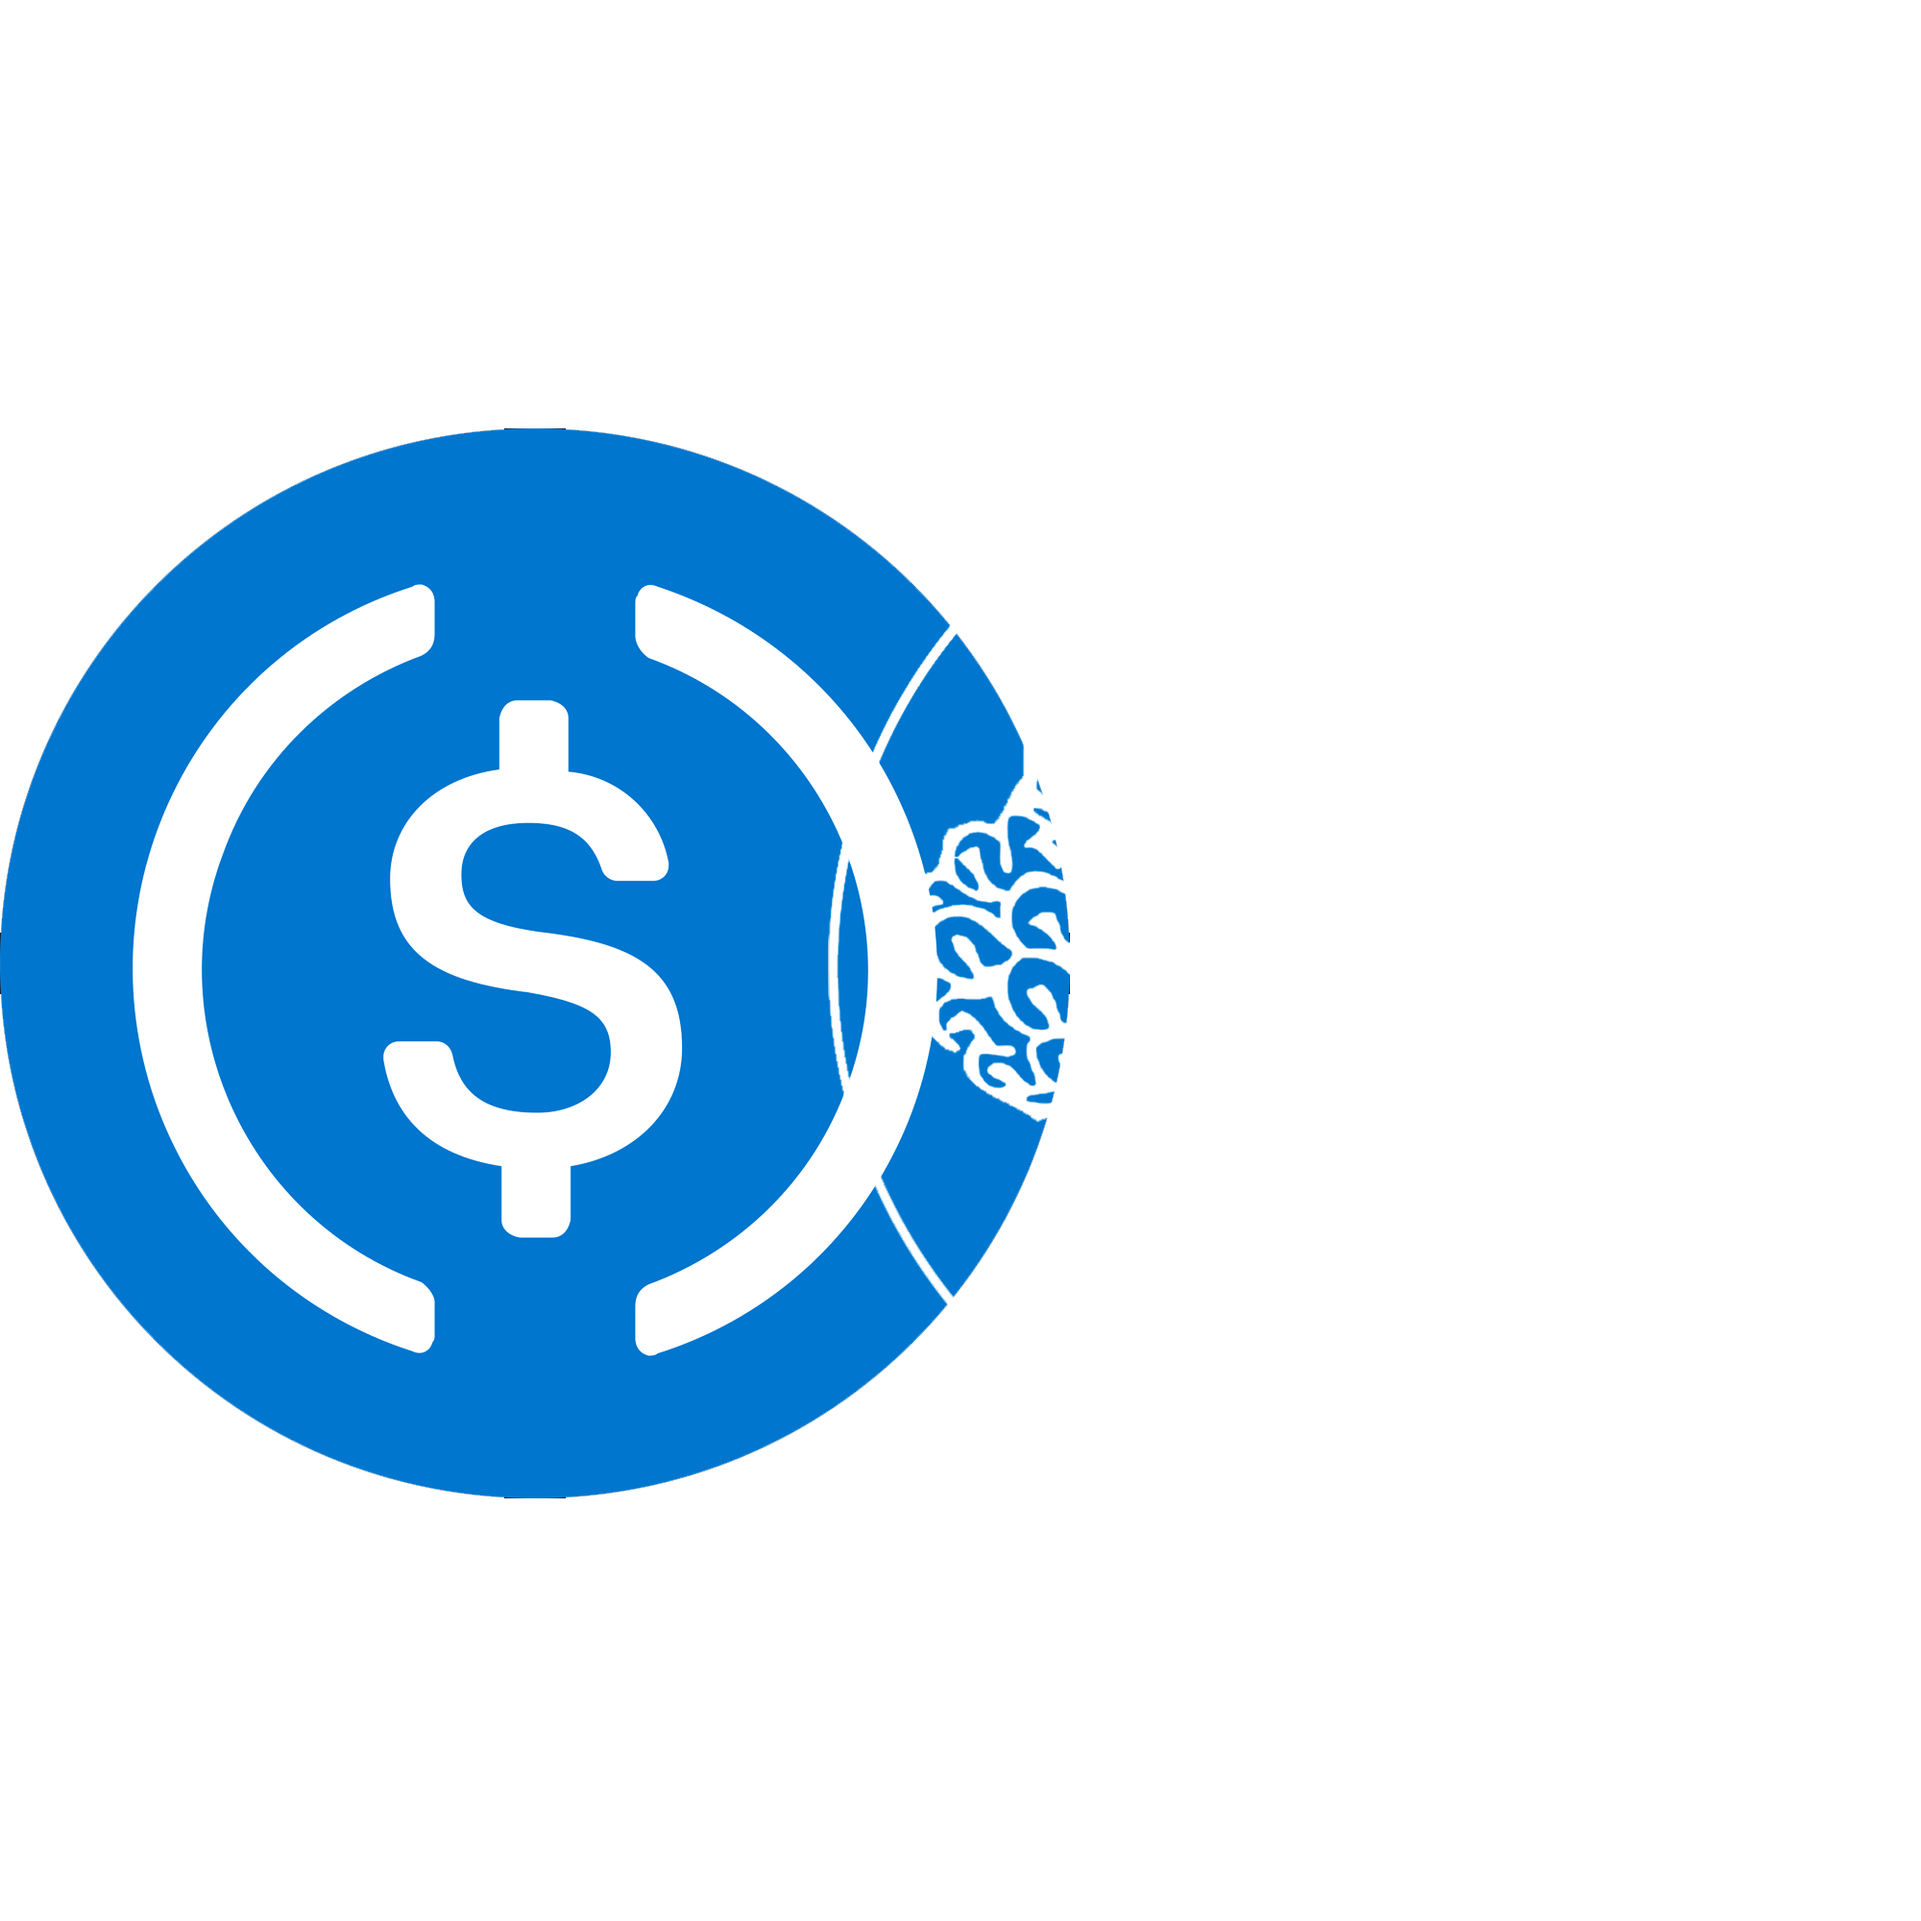
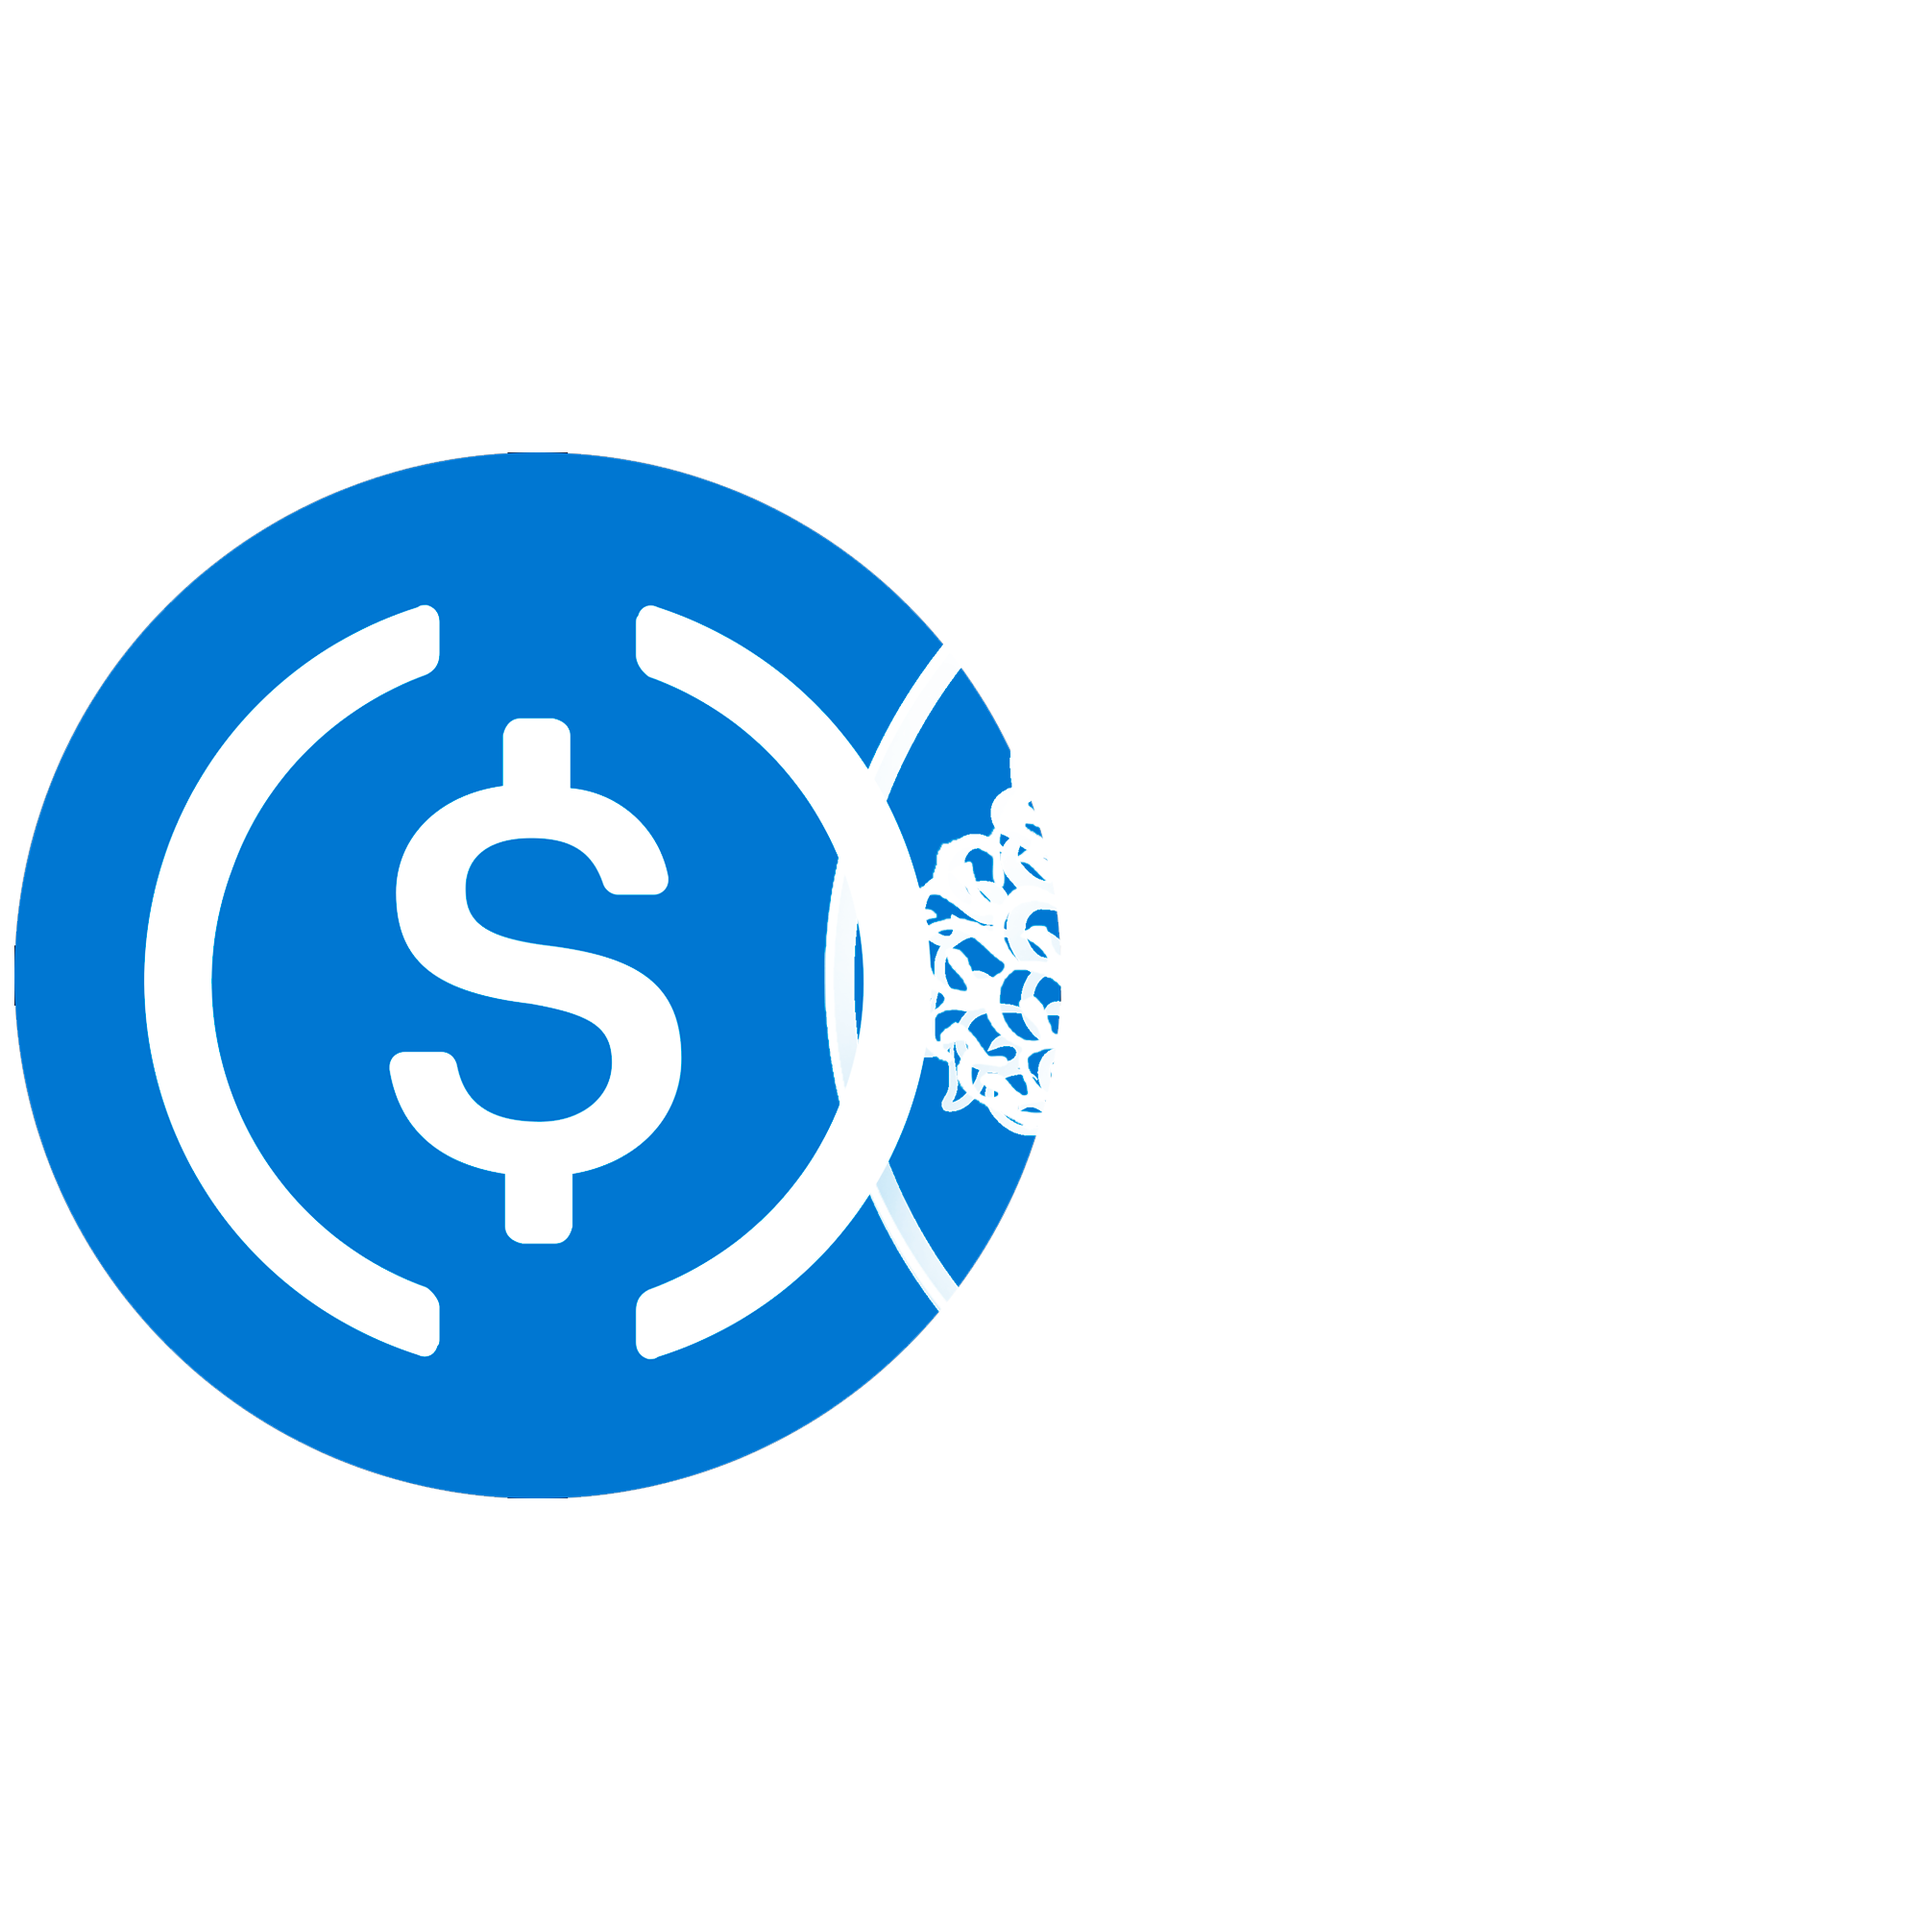
tethys bond

diff --git a/src/store/slices/bond-slice.ts b/src/store/slices/bond-slice.ts
@@ -130,7 +130,7 @@ export const calcBondDetails = createAsyncThunk(
     const bondContract = bond.getContractForBond(networkID, provider)
     const bondCalcContract = getBondCalculator(networkID, provider)
 
-    const vestingTerm = (bond.name === "weth") || (bond.name === "wmetis") ? "432000" : (await bondContract.terms()).vestingTerm
+    const vestingTerm = (bond.name === "weth") || (bond.name === "tethys") || (bond.name === "wmetis") ? "432000" : (await bondContract.terms()).vestingTerm
     const maxBondPrice = (await bondContract.maxPayout()) / Math.pow(10, 9)
 
     let marketPrice = (await getMarketPrice(networkID, provider)) * 1e9
@@ -140,7 +140,7 @@ export const calcBondDetails = createAsyncThunk(
 
     if(!bond.isClosed){
       try {
-        if ((bond.bondToken === "WETH") || (bond.bondToken === "METIS")) {
+        if ((bond.bondToken === "WETH") || (bond.bondToken === "METIS")|| (bond.bondToken === "TETHYS")) {
           bondPrice = (await bondContract.bondPrice())*getTokenPrice(bond.bondToken)/10000
 
           bondDiscount = (marketPrice-bondPrice) / (bondPrice)
@@ -255,6 +255,7 @@ export const bondAsset = createAsyncThunk(
     }else{
       valueInWei = Number(value) * 1e6
     }
+    valueInWei = String(BigInt(Math.trunc(valueInWei)));
     const signer = provider.getSigner()
     const bondContract = bond.getContractForBond(networkID, signer)
 
@@ -269,14 +270,14 @@ export const bondAsset = createAsyncThunk(
       //   depositorAddress);
       if (useMetis) {
         bondTx = await bondContract.deposit(
-          String(Math.trunc(valueInWei)),
+          valueInWei,
           maxPremium,
           depositorAddress,
-          { value: String(Math.trunc(valueInWei)) },
+          { value: valueInWei },
         )
       }else{
         bondTx = await bondContract.deposit(
-          String(Math.trunc(valueInWei)),
+          valueInWei,
           maxPremium,
           depositorAddress,
           { gasPrice },

diff --git a/src/helpers/bond/index.ts b/src/helpers/bond/index.ts
@@ -7,6 +7,7 @@ import MaiaMUSDCIcon from '../../assets/tokens/MAIA-USDC.png'
 import USDTIcon from '../../assets/tokens/USDT.e.png'
 import ETHicon from '../../assets/tokens/WETH.e.png'
 import WMETISicon from '../../assets/tokens/WMETIS.png'
+import TETHYSicon from '../../assets/tokens/TETHYS.png'
 
 import { getAddresses } from 'src/constants'
 
@@ -18,6 +19,23 @@ import {
   WmaticBondContract
 } from '../../abi'
 
+
+export const tethys = new CustomBond({
+  name: 'tethys',
+  displayName: 'TETHYS',
+  bondToken: 'TETHYS',
+  bondIconSvg: TETHYSicon,
+  bondContractABI: StableBondContract,
+  reserveContractAbi: StableReserveContract,
+  isClosed: false,
+  decimals: 18,
+  networkAddrs: {
+    [Networks.METIS]: {
+      bondAddress: '0x89fEf02c281cD1dcB4371dC9a32931E3Dc8777c9',
+      reserveAddress: '0x69fdb77064ec5c84FA2F21072973eB28441F43F3',
+    },
+  },
+})
 
 export const wmetis = new CustomBond({
   name: 'wmetis',
@@ -307,4 +325,4 @@ export const mUsdcBondingRitual = new StableBond({
 })
 
 
-export default [usdc, mimMaia, usdt, weth, wmetis, usdcFixed, mimMaiaFixed, usdtFixed, wethFixed, usdcSold, mimMaiaSold, usdtSold, usdcSoldOut, usdtSoldOut, mimMaiaSoldOut, mUsdcBondingRitual]
+export default [usdc, mimMaia, usdt, weth, wmetis, tethys, usdcFixed, mimMaiaFixed, usdtFixed, wethFixed, usdcSold, mimMaiaSold, usdtSold, usdcSoldOut, usdtSoldOut, mimMaiaSoldOut, mUsdcBondingRitual]

diff --git a/src/helpers/token-price.ts b/src/helpers/token-price.ts
@@ -3,13 +3,14 @@ import axios from "axios";
 const cache: { [key: string]: number } = {};
 
 export const loadTokenPrices = async () => {
-    const url = "https://api.coingecko.com/api/v3/simple/price?ids=metis-token,usd-coin,ethereum,tether&vs_currencies=usd";
+    const url = "https://api.coingecko.com/api/v3/simple/price?ids=metis-token,usd-coin,ethereum,tether,tethys-finance&vs_currencies=usd";
     const { data } = await axios.get(url);
 
     cache["METIS"] = data["metis-token"].usd;
     cache["USDC"] = data["usd-coin"].usd;
     cache["WETH"] = data["ethereum"].usd;
     cache["USDT"] = data["tether"].usd;
+    cache["TETHYS"] = data["tethys-finance"].usd;
 };
 
 export const getTokenPrice = (symbol: string): number => {

diff --git a/src/helpers/tokens.ts b/src/helpers/tokens.ts
@@ -87,7 +87,14 @@ const weth: IToken = {
 
 export const wmetis: IToken = {
     name: "WMETIS",
-    address: "0xDeadDeAddeAddEAddeadDEaDDEAdDeaDDeAD0000",
+    address: "0x75cb093E4D61d2A2e65D8e0BBb01DE8d89b53481",
+    img: WmaticIcon,
+    decimals: 18,
+};
+
+export const tethys: IToken = {
+    name: "TETHYS",
+    address: "0x69fdb77064ec5c84FA2F21072973eB28441F43F3",
     img: WmaticIcon,
     decimals: 18,
 };
